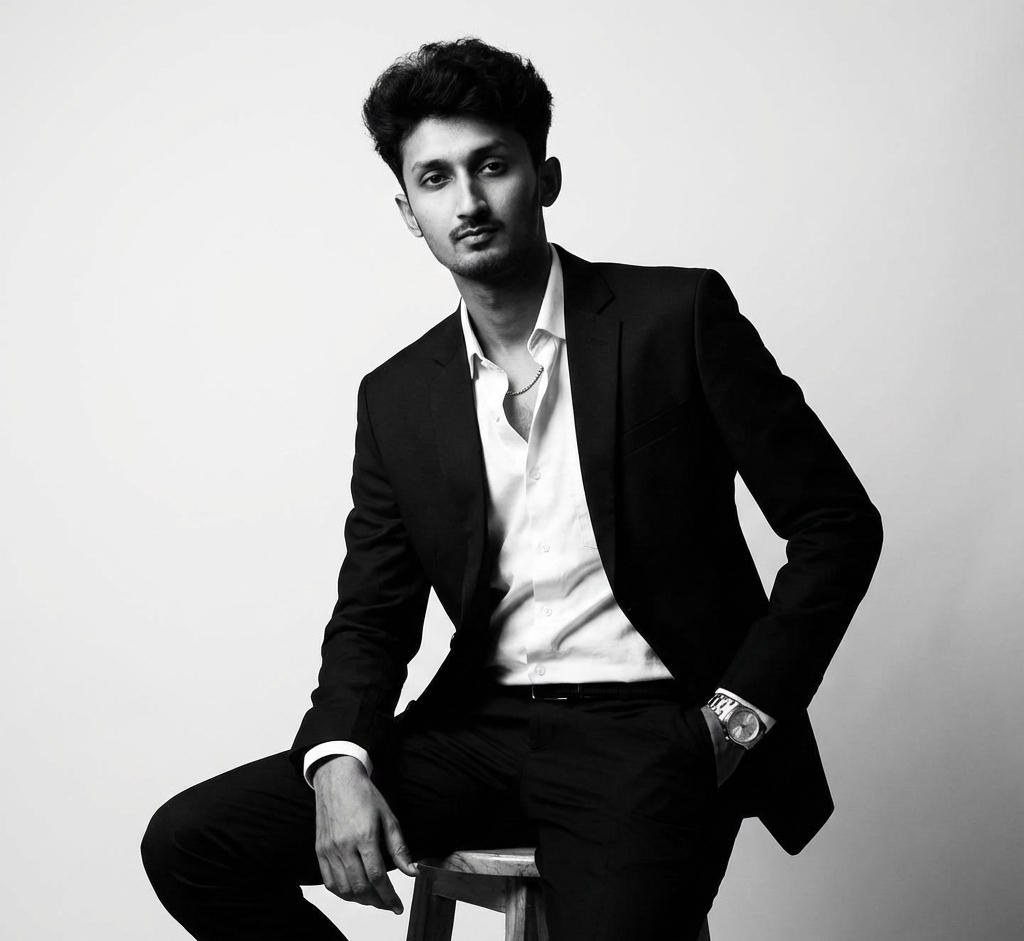
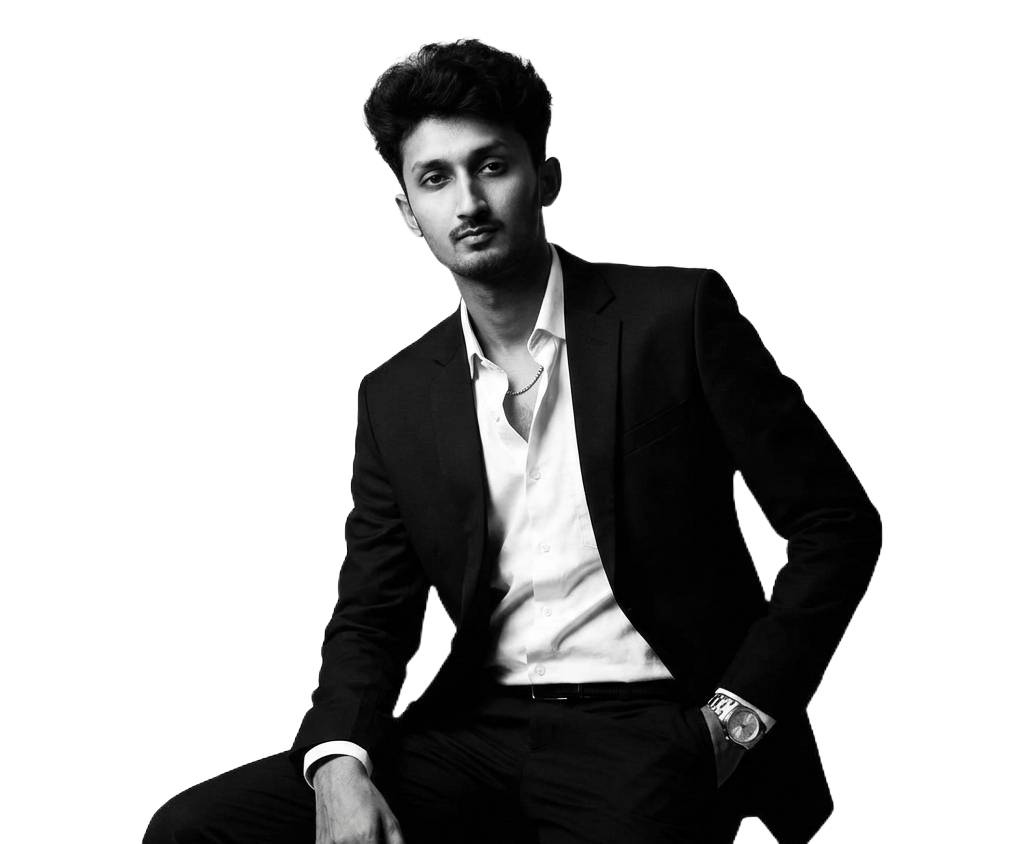
added something new

diff --git a/style.css b/style.css
@@ -12,6 +12,10 @@ header{
     background-color:#FFF8F3 ;
     color:black;
     padding-top: 50px;
+    background: url(./images/developer.png),url(./images/header_bg.png),#FFF8F3;
+    background-repeat: no-repeat;
+    background-position: top left , bottom right;
+
 }
 
 .logo{
@@ -23,7 +27,7 @@ header{
 }
 
 .btn{
-    padding: 18px 35px;
+    padding: 20px 30px;
     border: none;
     border-radius: 10px;
     background-color: #FF6E40;
@@ -33,7 +37,27 @@ header{
     cursor: pointer;
     transition: background-color 0.3s ease;
     text-decoration: none;
+    white-space: nowrap;
 }
+
+.section-heading{
+    text-align: center;
+    max-width: 800px;
+}
+
+.section-heading h2{
+    font-size: 35px;
+    font-weight: 600;
+    color: #474747;
+    margin-bottom: 25px;
+}
+
+.section-heading p{
+    font-size: 18px;
+    color: #757575;
+    line-height: 30px;
+}
+
 
 nav{
     width: 71%;
@@ -59,4 +83,85 @@ nav .menu a{
     font-size: 20px ;
     color: #474747;
     transition: color 0.3s ease;
+}
+
+#banner{
+    /* border: 1px solid black; */
+    width: 71%;
+    max-width: 1140px;
+    /* border: 1px solid black; */
+    margin: 47px auto 0px auto;
+    display: flex;
+    justify-content: space-between;
+    align-items: center;
+}
+#banner .banner-content{
+    /* border: 1px solid black; */
+    max-width: 585px;
+}
+#banner .banner-content h2{
+    font-size: 45px;
+    font-weight: 600;
+    color: #474747;
+    margin-bottom: 5px;
+}
+#banner .banner-content h1{
+    font-size: 80px;
+    font-weight: bold;
+    color:black;
+    margin-bottom: 20px;
+}
+#banner .banner-content h3{
+    font-size: 30px;
+    font-weight: bold;
+    color :#474747;
+    margin-bottom: 15px;
+}
+
+#banner .banner-content p{
+    font-size: 18px;
+    color: #757575;
+    margin-bottom: 35px;
+    line-height: 30px;
+    max-width: 585px;
+    margin-top: 10px;
+}
+
+.btn-group{
+    display: flex;
+    gap: 15px;
+    margin-top: 35px;
+}
+
+#banner .banner-image img{
+    max-width:auto ;
+    height: auto;
+    vertical-align: middle;
+}
+
+#about{
+    padding-top: 130px;
+}
+
+#about .about-container{
+    width: 71%;
+    max-width: 1140px;
+    margin: 0px auto;
+    text-align: center;
+    background-color: #FFF8F3 ;
+    padding: 131px 156px;
+}
+
+#about .about-container .about-info{
+    display: flex;
+    justify-content: space-around;
+    padding-top: 20px;
+    gap: 30px;
+}
+
+
+.about-info .info-card p{
+    font-size: 18px;
+    color: #757575;
+    line-height: 30px;
 }

diff --git a/portfolio.html b/portfolio.html
@@ -19,6 +19,49 @@
                 <li><button class="btn">Hire me</button></li>
             </ul>
         </nav>
+
+        <section id ="banner">
+            <div class="banner-content">
+                <h2>Hi,I'm</h2>
+                <h1>Rubyat Simum Mahi</h1>
+                <h3>Web Developer & Designer</h3>
+                <p>Shot what able cold new see hold.Friendly as an betrayed formerly he. Morning because as to society behaved moments.</p>
+                <div class="btn-group">
+                    <button class="btn">Download CV</button>
+                    <button class="btn">Contact</button>
+                </div>
+            </div>
+            <div class="banner-image">
+                <img src="photo.png" alt="">
+            </div>
+        </section>
     </header>
+
+    <section id="about">
+        <div class="about-container">
+            <div class="section-heading">
+                <h2>About Me</h2>
+                <p>I, m a designer & developer with a passion for web design. I enjoy developing simple, clean and slick websites that provide real value to the end user. Thousands of clients have procured exceptional resulfs while working with me. Delivering work within time and budget which meets clients requirements in our mata.</p>
+            </div>
+            <div class="about-info">
+                <div class="info-card">
+                    <p>Name</p>
+                    <h4>Rubyat Simum Mahi</h4>
+                </div>
+                <div class="info-card">
+                    <p>Email</p>
+                    <h4>info@gmail.com</h4>
+                </div>
+                <div class="info-card">
+                    <p>Date of Birth</p>
+                    <h4>5 january, 2004</h4>
+                </div>
+                <div class="info-card">
+                    <p>From</p>
+                    <h4>Dhaka , Bangladesh</h4>
+                </div>
+            </div>
+        </div>
+    </section>
 </body>
 </html>
